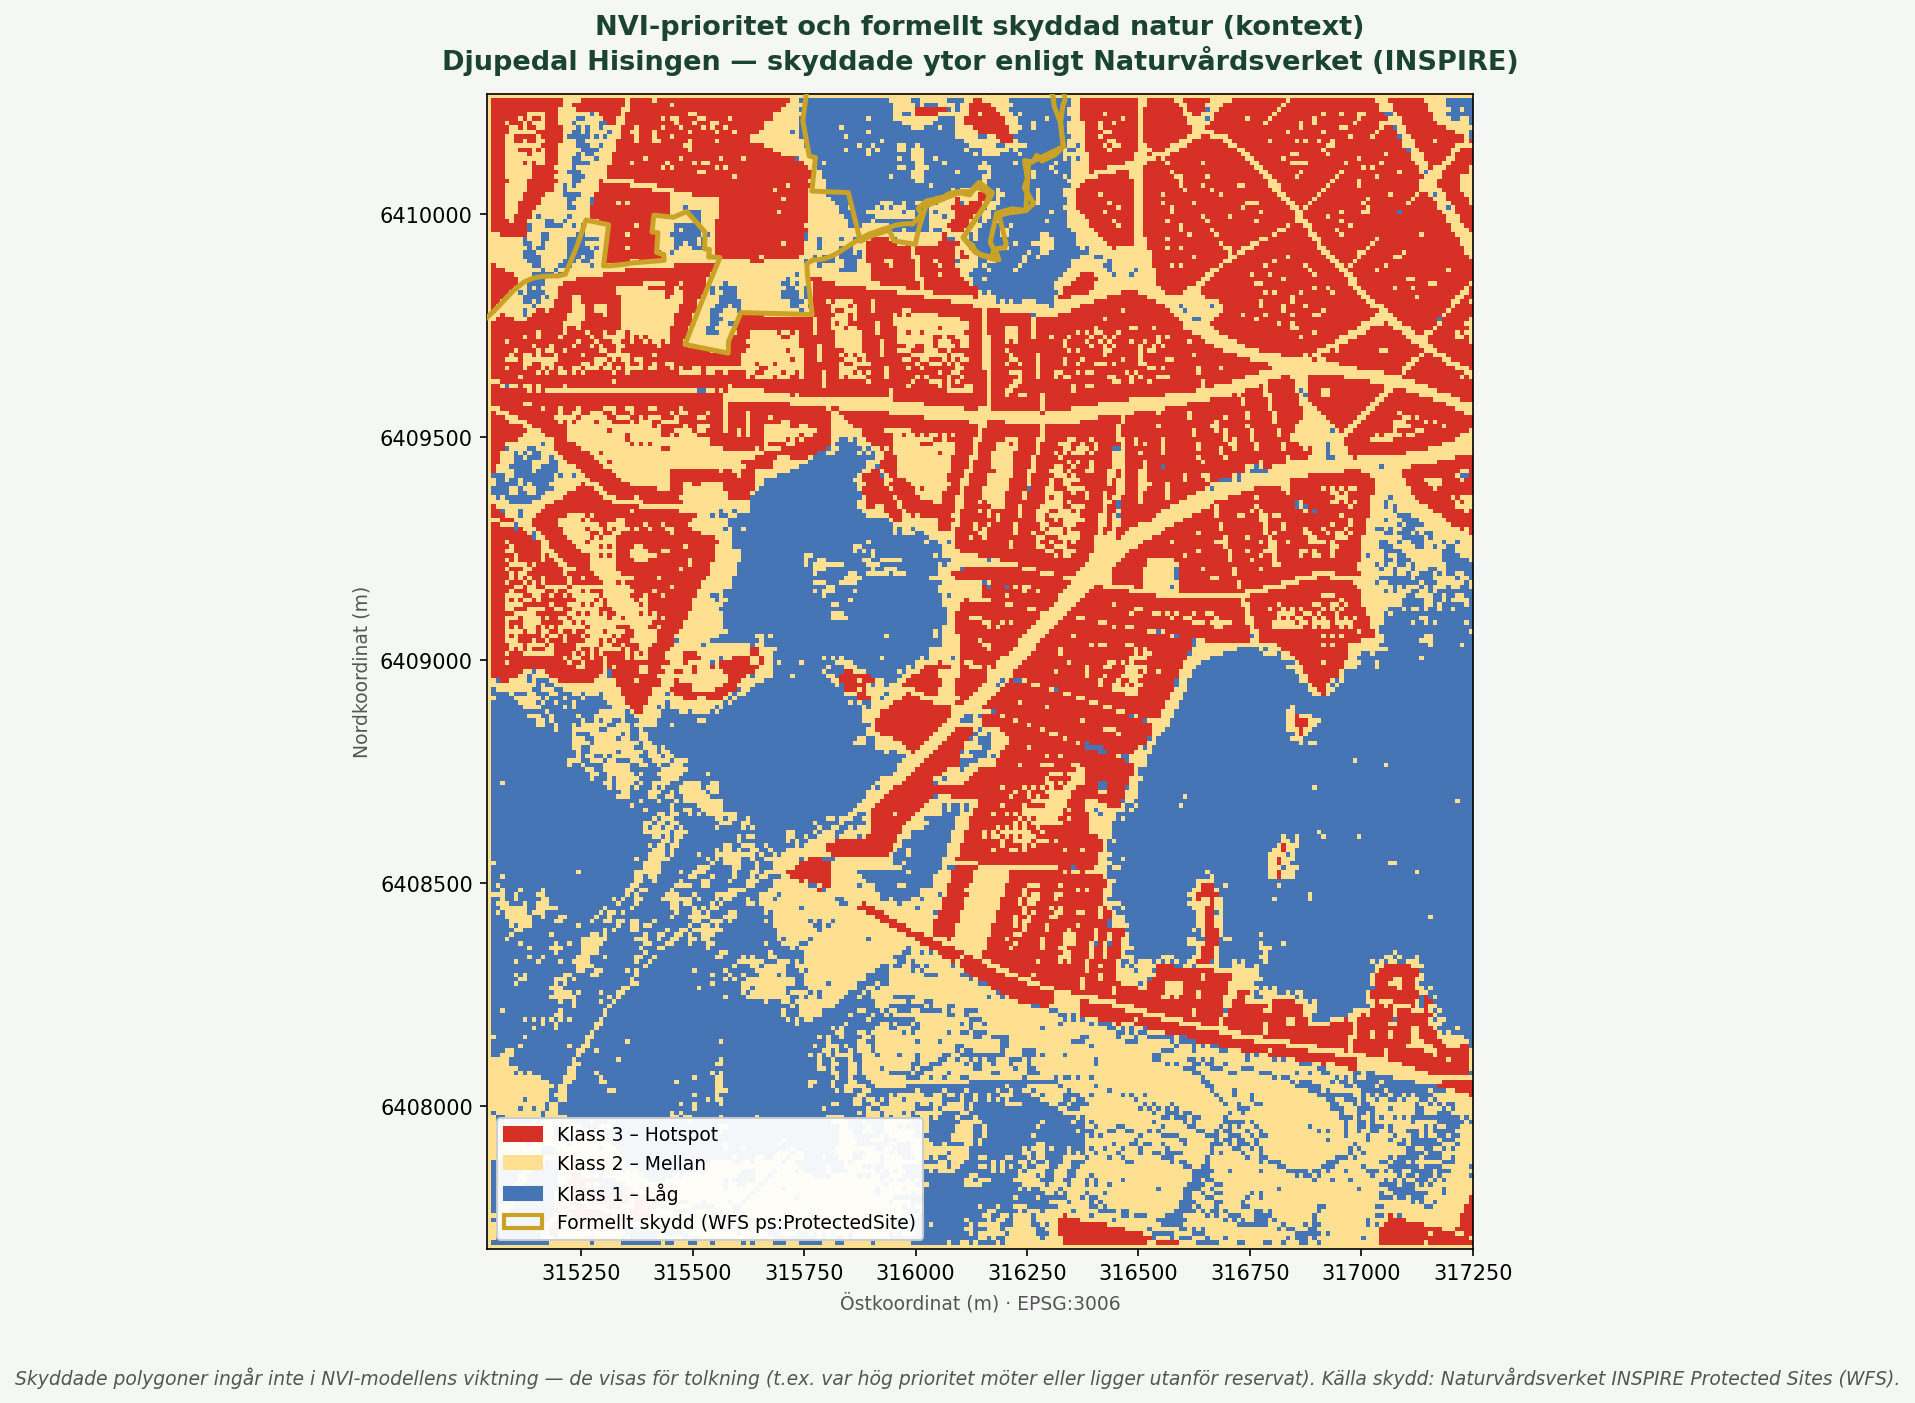
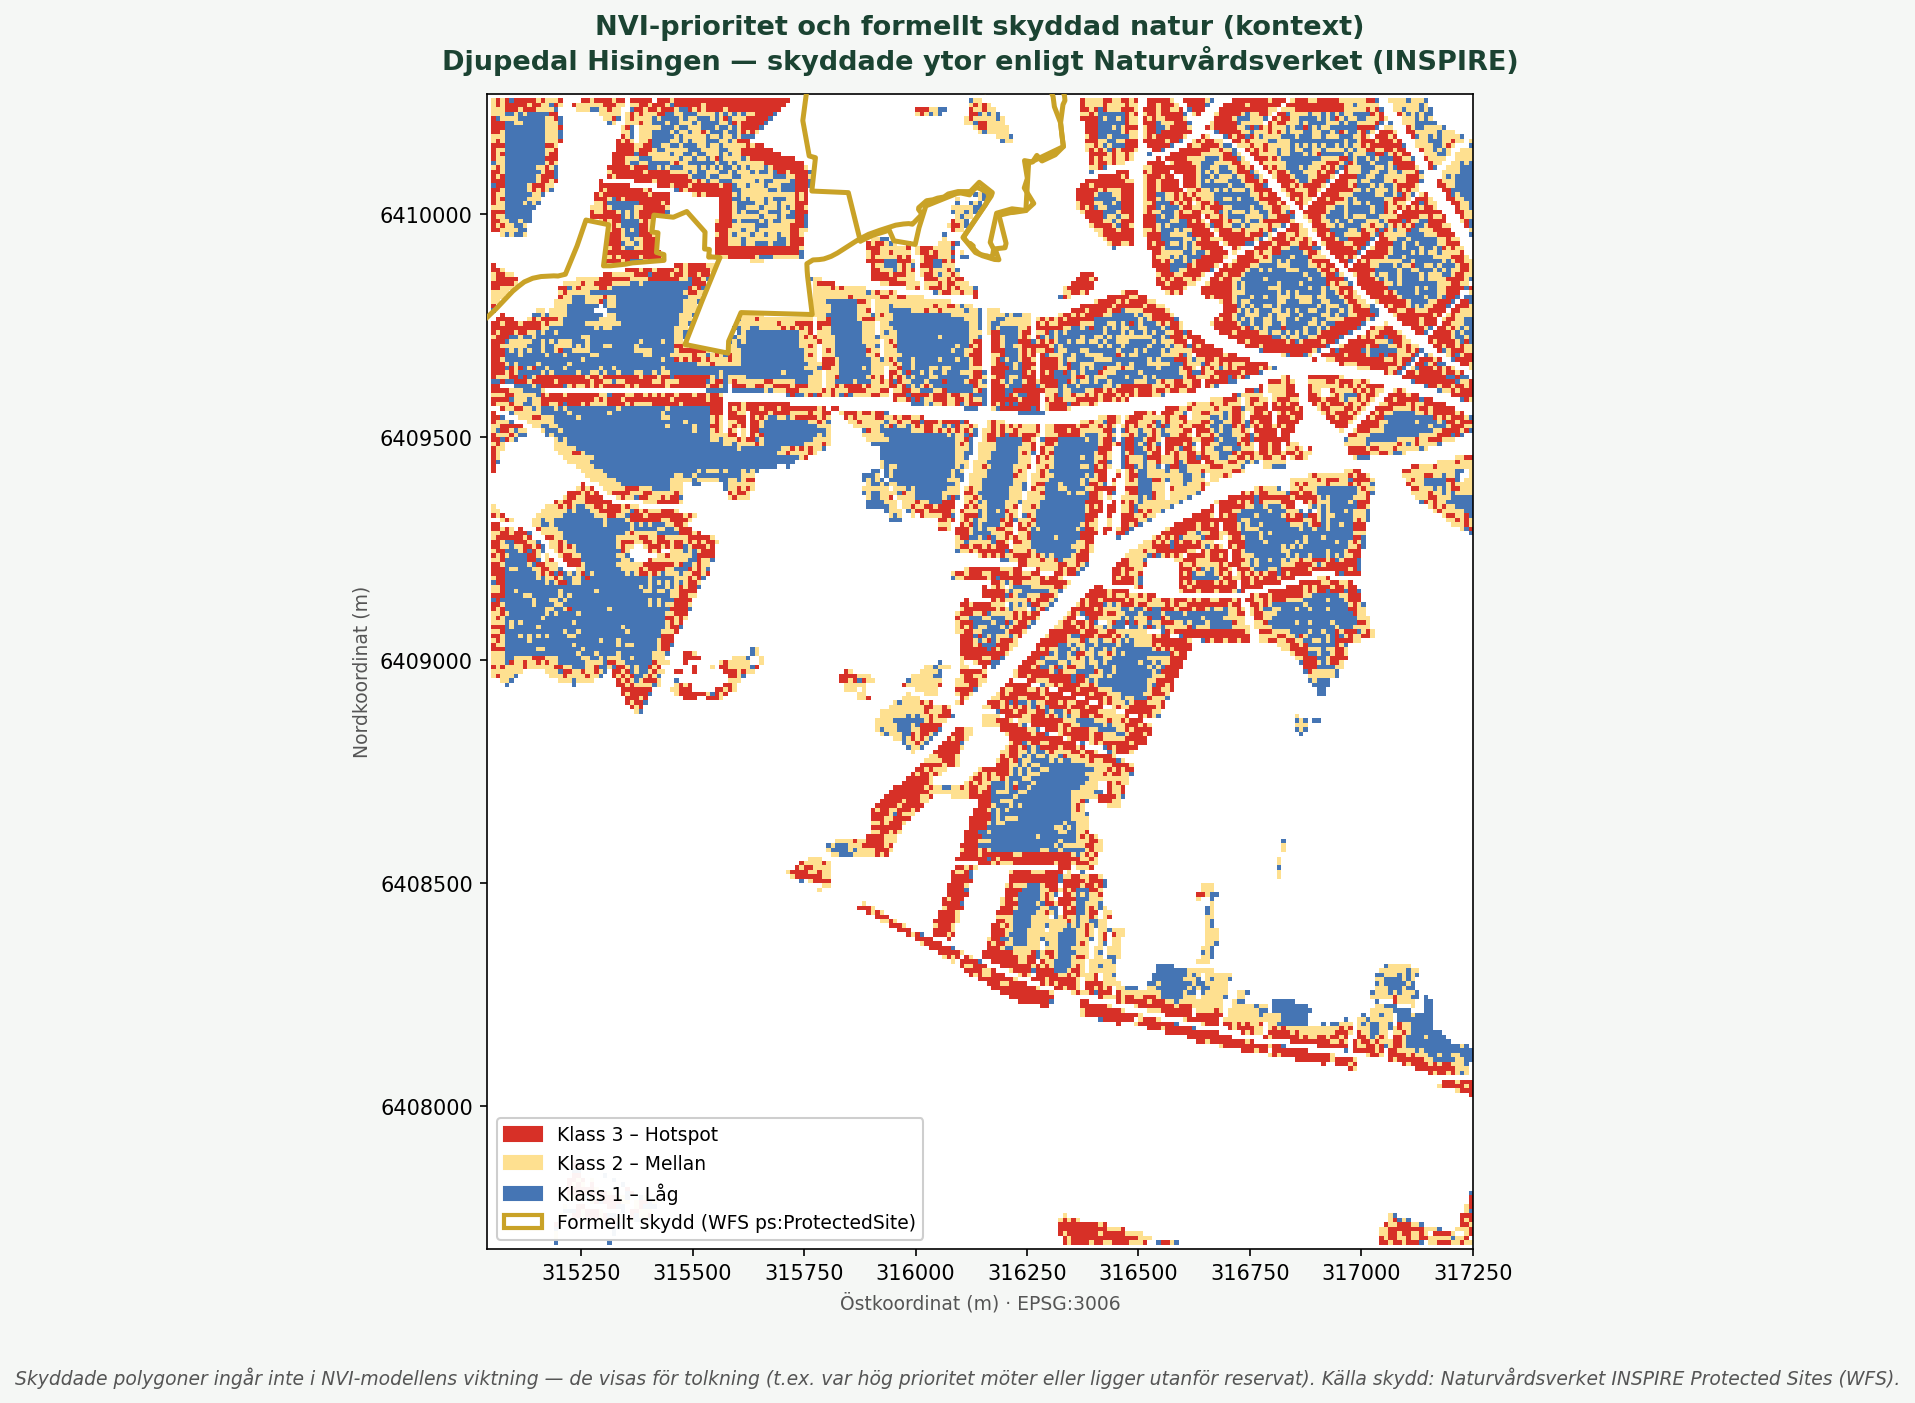
Fix: NMD-skogsmask (nearest-neighbour), Djupedal-text, NVI-klasstabell
- compute_indices.py: applicerar NMD-skogsmask på nvi_score med order=0
  (nearest-neighbour) så att kategoriska klassvärden inte interpoleras;
  åker, bebyggelse och vatten maskeras bort före hotspot-klassning
- docs/index.html: kartsektion uppdaterad till Djupedal, Hisingen;
  NVI-klasskompatibilitetstabellen rättad (3-gradig förstudie, inte klass 1–4)
- docs/assets: regenererade showcase-bilder med korrekt mask

diff --git a/docs/index.html b/docs/index.html
@@ -424,12 +424,12 @@
 <!-- ── Karta ── -->
 <section id="karta">
   <div class="container">
-    <h2>Exempelkarta – Fiby urskog, Uppland</h2>
-    <p class="section-lead">Testområde: Fiby urskog (~10 km²) — ett av Sveriges bäst bevarade gammelskogslandskap. Kartan visar geodatabaserad prioritering och hur fältinsatserna bör fördelas. Den lilla inbäddade kartan uppe till vänster visar var området ligger (bakgrundskarta © OpenStreetMap-bidragsgivare via CartoDB). Artdata i form av historiska observationer kan läggas ovanpå hotspot/NVI i GIS som kontext — de viktas inte in i indexen. Egna fältfynd efter riktad NVI hör hemma i ett utvärderingssteg efter inventering (beskrivs i repots <code>SPECIES_RODLISTA.md</code>).</p>
+    <h2>Exempelkarta – Djupedal, Hisingen, Göteborg</h2>
+    <p class="section-lead">Testområde: Djupedal, Hisingen (~113 ha inventerad yta) — ekdominerad blandskog inventerad av Länsstyrelsen Västra Götaland (Rapport 2022:42, Svensk Naturförvaltning AB). Kartan visar geodatabaserad prioritering och hur fältinsatserna bör fördelas. Den lilla inbäddade kartan uppe till vänster visar var området ligger (bakgrundskarta © OpenStreetMap-bidragsgivare via CartoDB). Artdata i form av historiska observationer kan läggas ovanpå hotspot/NVI i GIS som kontext — de viktas inte in i indexen. Egna fältfynd efter riktad NVI hör hemma i ett utvärderingssteg efter inventering (beskrivs i repots <code>SPECIES_RODLISTA.md</code>).</p>
 
     <div class="map-wrap">
       <img src="assets/hotspot_showcase.png"
-           alt="NVI hotspot-karta och delindex baserat på NMD, lidar och avverkningsdata – Fiby urskog">
+           alt="NVI hotspot-karta och delindex baserat på NMD, lidar och avverkningsdata – Djupedal, Hisingen">
     </div>
 
     <div class="map-legend">
@@ -576,7 +576,7 @@
         <tr>
           <td class="dim">NVI-klasskompatibilitet</td>
           <td class="good">Ja (klass 1–4, SS 199000:2023)</td>
-          <td class="good">Ja – poäng översätts till klass 1–4 per SS 199000:2023</td>
+          <td class="good">3-gradig hotspot-klassning (1–3) som förstudie; klassificering till SS 199000:2023 klass 1–4 görs i fältsteget</td>
         </tr>
       </tbody>
     </table>

diff --git a/scripts/python/compute_indices.py b/scripts/python/compute_indices.py
@@ -359,6 +359,19 @@ def compute_indices():
         moisture   * WEIGHTS["moisture"]
     )
 
+    # Maskera bort icke-skogsmark (bebyggelse, åker, vatten m.m.) så att
+    # dessa pixlar inte kan hamna i hotspot-klasser enbart via fukt-/kontinuitetsindex.
+    # NMD-klasserna 1–3 = skog; övriga (4=åker, 5=öppen, 7=exploaterad, 8=vatten) sätts till 0.
+    if NMD_BASSKIKT.exists():
+        print("  Applicerar NMD-skogsmask på NVI-poäng ...")
+        nmd_arr, _ = clip_and_read(NMD_BASSKIKT, crs_is_sweref=True)
+        # Nearest-neighbour för kategoriska klassvärden (bilinär ger meningslösa mellanvärden)
+        from scipy.ndimage import zoom as _zoom
+        factors = (nvi_score.shape[0] / nmd_arr.shape[0], nvi_score.shape[1] / nmd_arr.shape[1])
+        nmd_arr = _zoom(nmd_arr, factors, order=0)
+        non_forest = ~np.isin(nmd_arr.astype(int), NMD_FOREST_CLASSES)
+        nvi_score[non_forest] = 0.0
+
     for arr, suffix in [
         (structure,  "structure_index"),
         (continuity, "continuity_index"),
